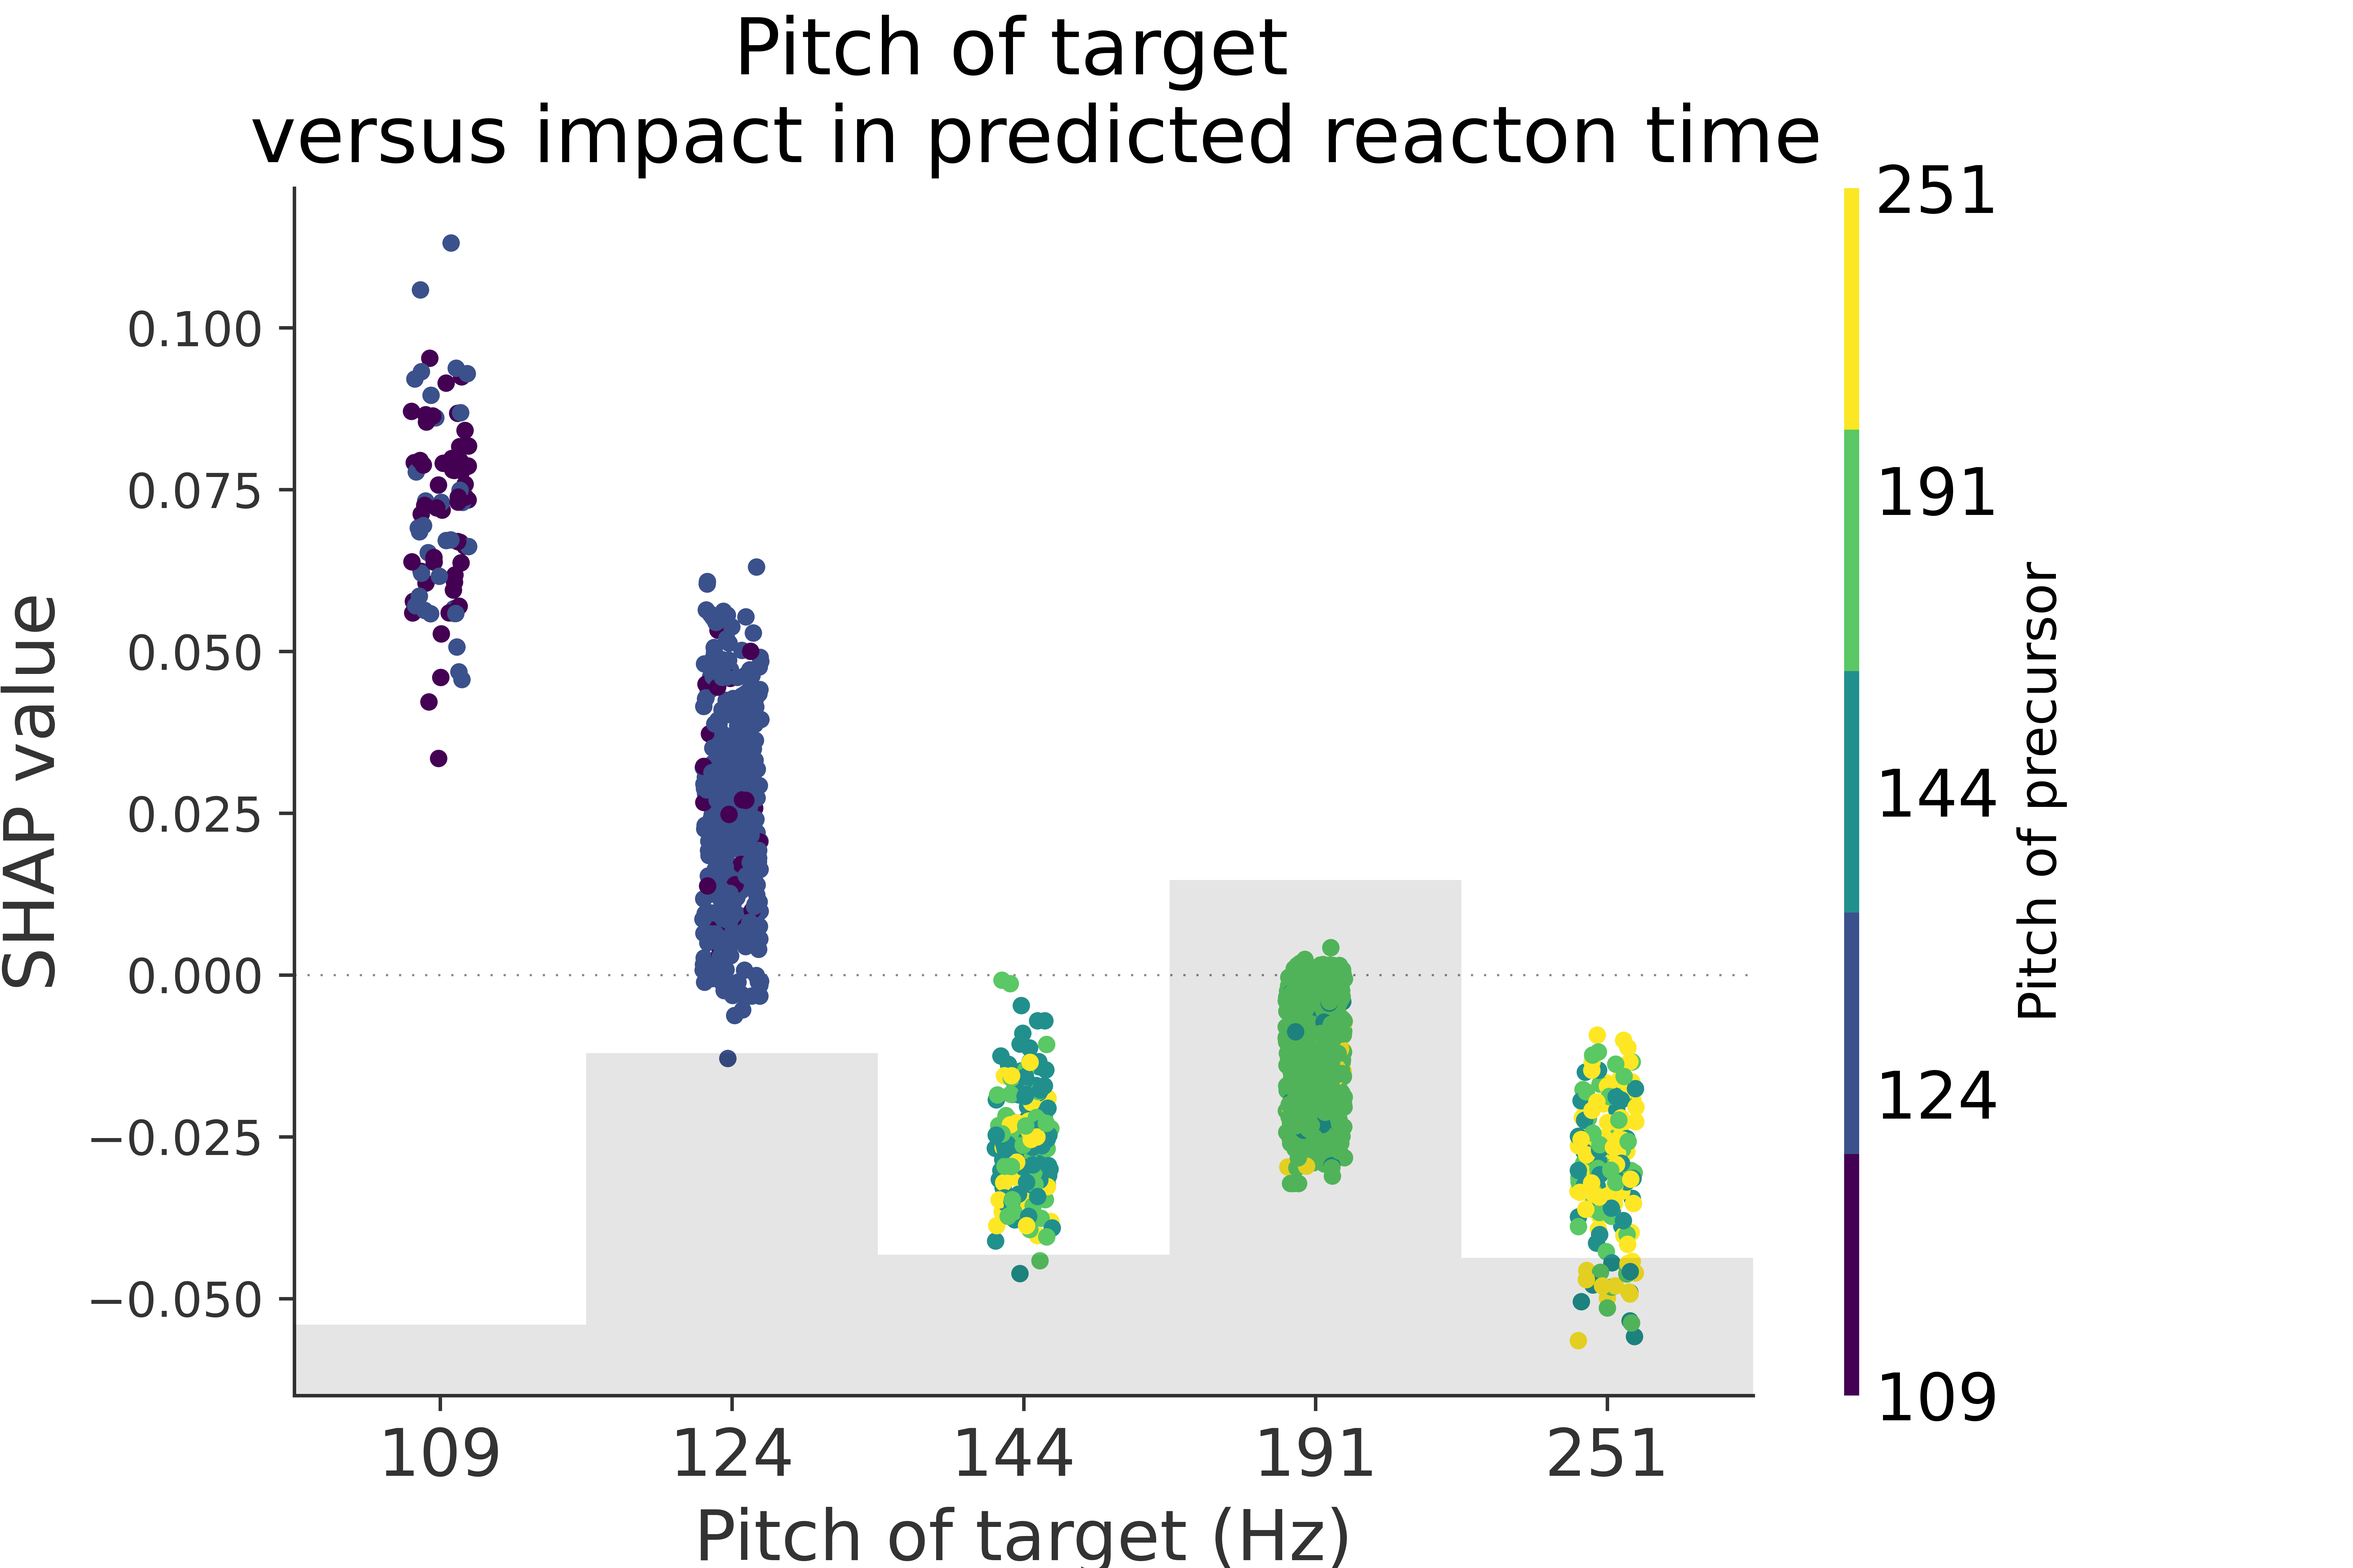
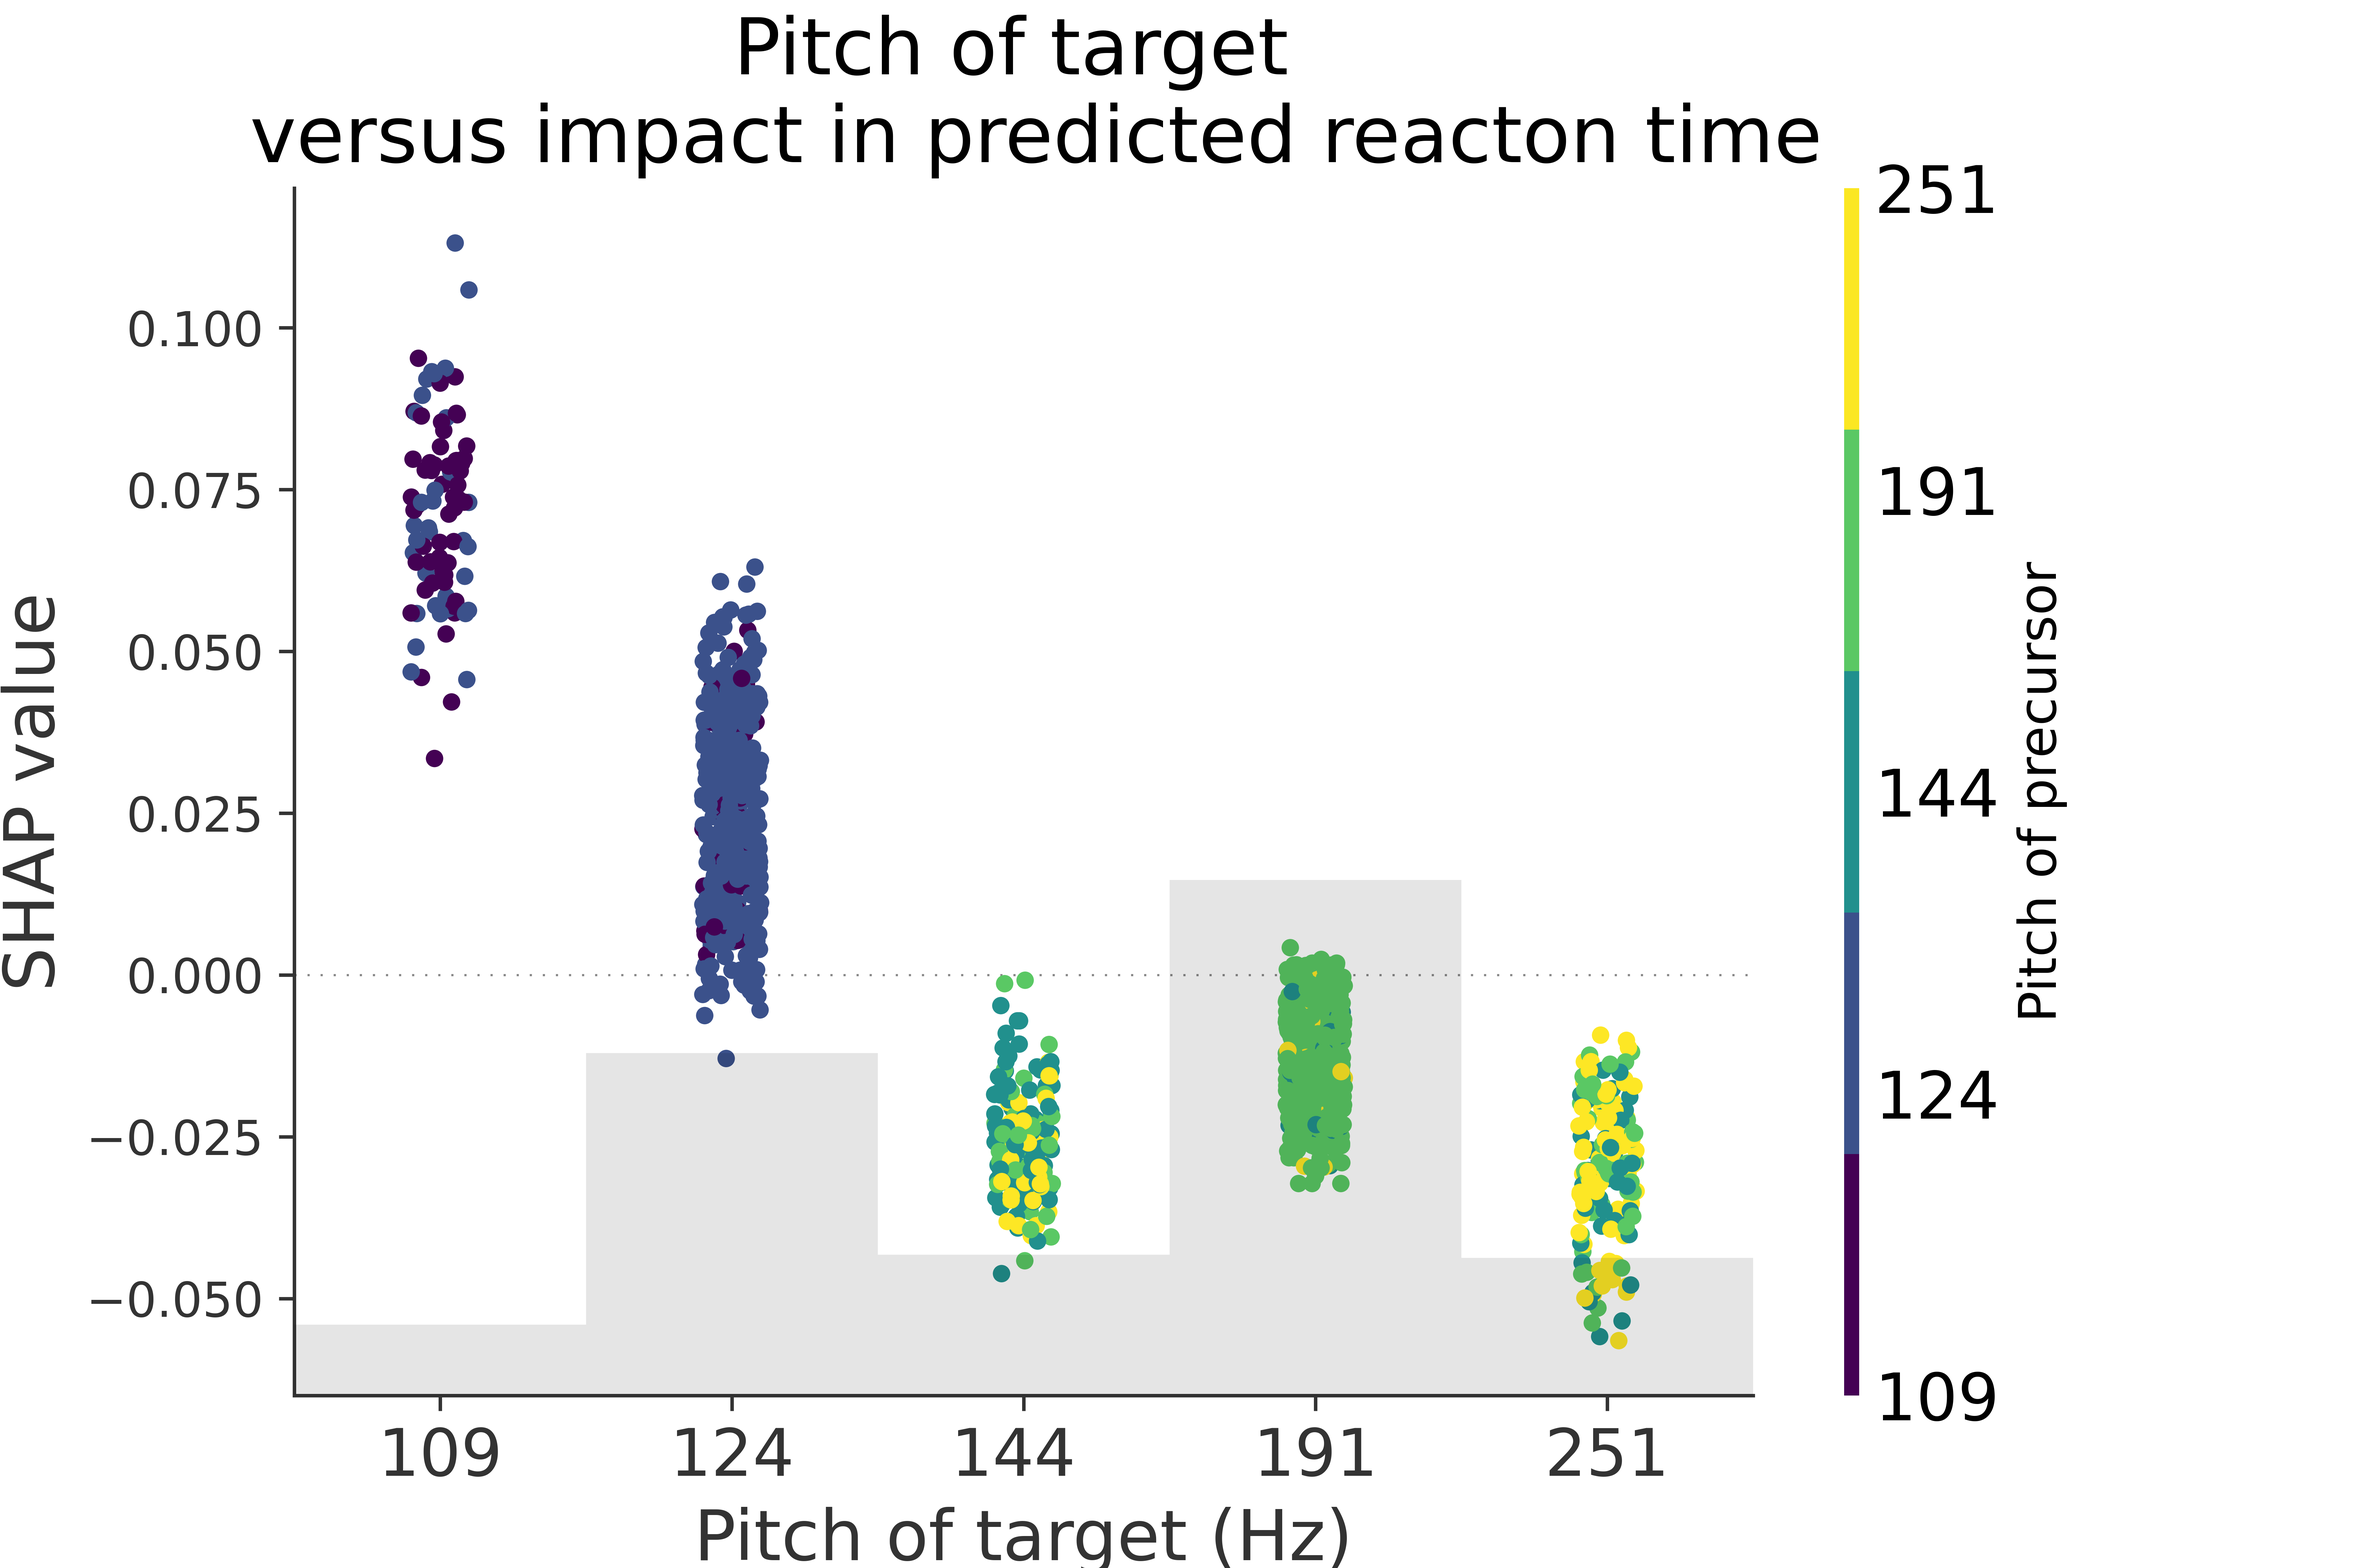
removing pitchofprecur, AM, DaysSinceStart

diff --git a/reactiontimemodel.py b/reactiontimemodel.py
@@ -411,8 +411,8 @@ def runlgbreleasetimes(X, y, paramsinput=None, ferret_as_feature = False, one_fe
 
 def extract_release_times_data(ferrets):
     df = behaviouralhelperscg.get_df_behav(ferrets=ferrets, includefaandmiss=False, startdate='04-01-2020', finishdate='01-03-2023')
-    dfuse = df[["pitchoftarg", "pitchofprecur", "pastcatchtrial", "trialNum","talker", "side", "precur_and_targ_same",
-                "timeToTarget", "DaysSinceStart", "AM",
+    dfuse = df[["pitchoftarg", "pastcatchtrial", "trialNum","talker", "side", "precur_and_targ_same",
+                "timeToTarget",
                 "realRelReleaseTimes", "ferret", "pastcorrectresp"]]
     return dfuse
 
@@ -474,15 +474,16 @@ def run_correctrxntime_model_for_a_ferret(ferrets, optimization = False, ferret_
             best_study_results = run_optuna_study_releasetimes(dfx.to_numpy(), df_use[col].to_numpy())
             best_params = best_study_results.best_params
             np.save('optuna_results/best_paramsreleastimemodel_ferretasfeature_'+ ferrets[0]+ '.npy', best_params)
-    xg_reg, ypred, y_test, results = runlgbreleasetimes(dfx, df_use[col], paramsinput=best_params, ferret_as_feature=ferret_as_feature, ferret=ferrets[0])
+    xg_reg, ypred, y_test, results = runlgbreleasetimes(dfx, df_use[col], paramsinput=best_params, ferret_as_feature=ferret_as_feature, one_ferret=True, ferrets=ferrets[0])
 
 
 def main():
-    ferrets = ['F1702_Zola', 'F1815_Cruella', 'F1803_Tina', 'F2002_Macaroni', 'F2105_Clove'] #'F2105_Clove'
+    ferrets = ['F1702_Zola', 'F1815_Cruella', 'F1803_Tina', 'F2002_Macaroni', 'F2105_Clove']
+    ferrets = ['F1702_Zola']
     # run_correctrxntime_model(ferrets, optimization = False, ferret_as_feature=True)
 
     for ferret in ferrets:
-        run_correctrxntime_model_for_a_ferret([ferret], optimization=True, ferret_as_feature=False)
+        run_correctrxntime_model_for_a_ferret([ferret], optimization=False, ferret_as_feature=False)
 
 
 
